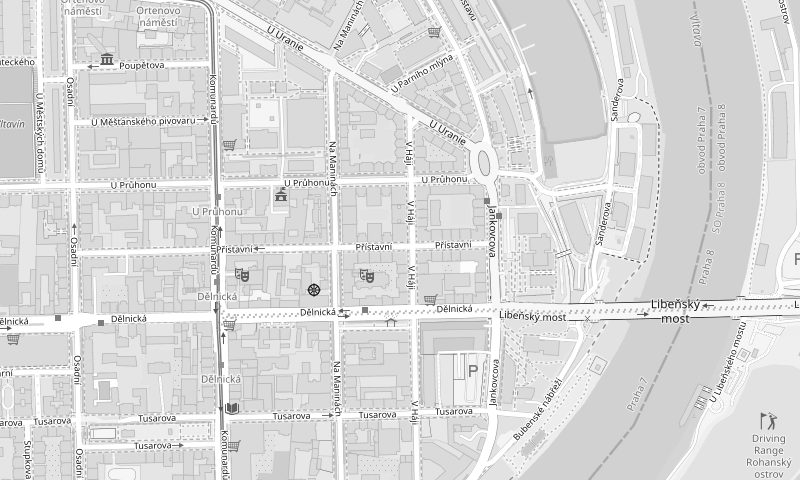
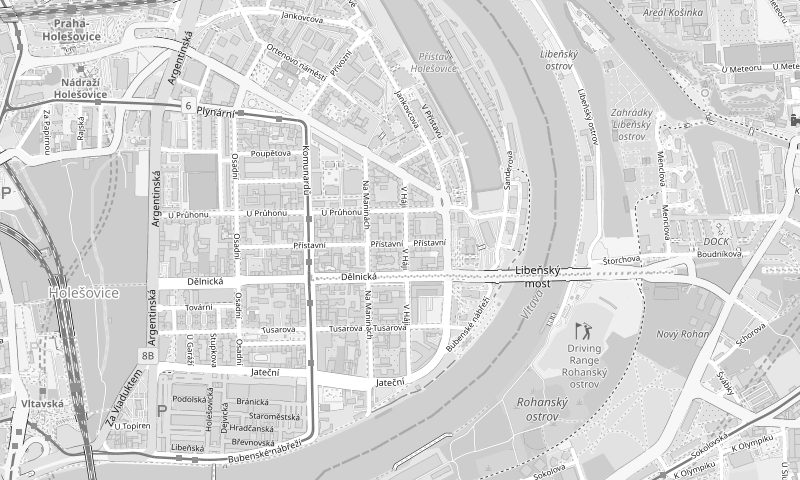
Mapa: oddálený obrázek (vidět Libeňský most), odkaz na běžnou mapu

diff --git a/index.html b/index.html
@@ -24,10 +24,10 @@
 
   <!-- ?v=… = verze souboru. Po každé změně CSS/JS číslo zvýšit (na všech
        stránkách), jinak prohlížeče mohou ještě chvíli používat starou kopii. -->
-  <link rel="stylesheet" href="css/style.css?v=16">
-  <script src="js/main.js?v=16" defer></script>
-  <script src="js/efekty.js?v=16" defer></script>
-  <script src="js/zakazka.js?v=16" defer></script>
+  <link rel="stylesheet" href="css/style.css?v=17">
+  <script src="js/main.js?v=17" defer></script>
+  <script src="js/efekty.js?v=17" defer></script>
+  <script src="js/zakazka.js?v=17" defer></script>
 
   <!-- DOČASNÉ (přepínač barev): obnoví naposledy zvolenou barvu ještě před
        vykreslením stránky, aby neproblikla výchozí. Po výběru barvy smazat. -->
@@ -771,12 +771,14 @@
       <!-- Mapa = statický obrázek (img/mapa.jpg, podklad © OpenStreetMap,
            adresa je přesně uprostřed). Nic se nenačítá od Googlu, takže
            není potřeba cookie lišta. Celá plocha je odkaz: na mobilu otevře
-           aplikaci Google Maps, na PC Google Maps v nové záložce. -->
+           aplikaci Google Maps, na PC Google Maps v nové záložce.
+           „@50.10…,14.45…,16z“ v odkazu = střed a přiblížení v běžném
+           zobrazení mapy (ne satelit). -->
       <a class="footer__map"
-         href="https://www.google.com/maps/search/?api=1&amp;query=P%C5%99%C3%ADstavn%C3%AD+1244%2F43%2C+170+00+Praha+7"
+         href="https://www.google.com/maps/place/P%C5%99%C3%ADstavn%C3%AD+1244%2F43,+170+00+Praha+7/@50.1043034,14.4538413,16z"
          target="_blank" rel="noopener"
          aria-label="Otevřít adresu Přístavní 1244/43, Praha 7 v Google Maps">
-        <img class="footer__map-img" src="img/mapa.jpg" width="800" height="480" loading="lazy"
+        <img class="footer__map-img" src="img/mapa.jpg?v=2" width="800" height="480" loading="lazy"
              alt="Mapa okolí laboratoře – Přístavní 1244/43, Praha 7 – Holešovice">
         <!-- Špendlík uprostřed obrázku = adresa -->
         <svg class="footer__map-pin" width="34" height="44" viewBox="0 0 34 44" aria-hidden="true">

diff --git a/ochrana-osobnich-udaju.html b/ochrana-osobnich-udaju.html
@@ -15,7 +15,7 @@
 
   <!-- ?v=… = verze souboru. Po každé změně CSS/JS číslo zvýšit (na všech
        stránkách), jinak prohlížeče mohou ještě chvíli používat starou kopii. -->
-  <link rel="stylesheet" href="css/style.css?v=16">
+  <link rel="stylesheet" href="css/style.css?v=17">
 </head>
 
 <body>
